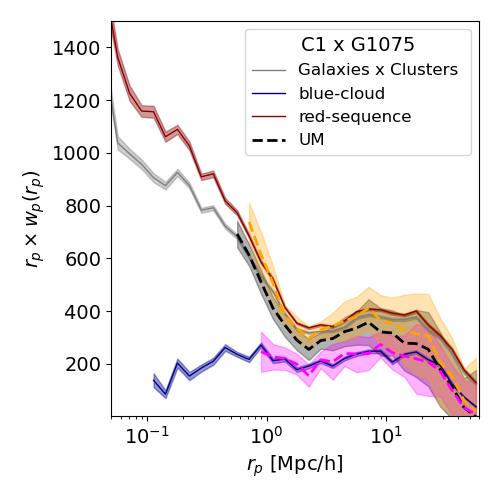
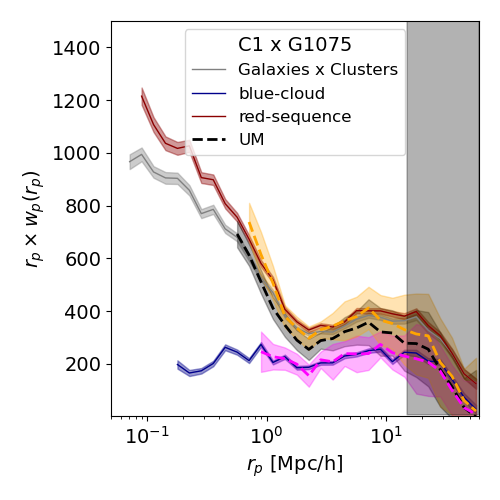
comparison to simulations

diff --git a/python/compare_wp_uchuu_1075.py b/python/compare_wp_uchuu_1075.py
@@ -86,7 +86,7 @@ t_wp = Table.read(el)
 f_err = all_wprp.std(axis=0)/all_wprp.mean(axis=0)
 f_err_tot = (f_err**2 + syst_err**2)**0.5
 # f_err = t_wp['wprp_JK_std']/t_wp['wprp_JK_mean']
-plt.plot(t_wp['rp_mid'], all_wprp.mean(axis=0)*t_wp['rp_mid'], lw=1,  ls='solid', color='darkblue')
+plt.plot(t_wp['rp_mid'], all_wprp.mean(axis=0)*t_wp['rp_mid'], lw=1,  ls='solid', color='darkblue', label='blue-cloud')
 plt.fill_between(t_wp['rp_mid'], all_wprp.mean(axis=0)*t_wp['rp_mid']*(1-f_err_tot), all_wprp.mean(axis=0)*t_wp['rp_mid']*(1+f_err_tot), color='darkblue', alpha=0.4)#, label='blue-cloud')
 
 pcf_list_1075 = np.array( glob.glob( os.path.join( dC1xG1075, '*_RS_*NSIDE_08*.fits' )))
@@ -98,7 +98,7 @@ t_wp = Table.read(el)
 f_err = all_wprp.std(axis=0)/all_wprp.mean(axis=0)
 f_err_tot = (f_err**2 + syst_err**2)**0.5
 # f_err = t_wp['wprp_JK_std']/t_wp['wprp_JK_mean']
-plt.plot(t_wp['rp_mid'], all_wprp.mean(axis=0)*t_wp['rp_mid'], lw=1,  ls='solid', color='darkred')
+plt.plot(t_wp['rp_mid'], all_wprp.mean(axis=0)*t_wp['rp_mid'], lw=1,  ls='solid', color='darkred', label='red-sequence')
 plt.fill_between(t_wp['rp_mid'], all_wprp.mean(axis=0)*t_wp['rp_mid']*(1-f_err_tot), all_wprp.mean(axis=0)*t_wp['rp_mid']*(1+f_err_tot), color='darkred', alpha=0.4)#, label='red-sequence')
 
 t_wp = U0p19["ANY_10.75_LX43.2"]
@@ -114,12 +114,8 @@ plt.plot(t_wp['rp_mid'], t_wp['rp_mid']*t_wp['wprp_JK_mean'], lw=2,  ls='dashed'
 f_err = t_wp['wprp_JK_std']/t_wp['wprp_JK_mean']
 plt.fill_between(t_wp['rp_mid'], t_wp['wprp_JK_mean']*t_wp['rp_mid']*(1-f_err), t_wp['wprp_JK_mean']*t_wp['rp_mid']*(1+f_err), color='orange', alpha=0.3)
 
-#t_wp = U0p19["ANY_10.75_LX42.9"]
-#plt.plot(t_wp['rp_mid'], t_wp['rp_mid']*t_wp['wprp'], lw=2,  ls='dashed', color='k', label='Uchuu+UM z=0.14')
-#t_wp = U0p19["BC_10.75_LX42.9"]
-#plt.plot(t_wp['rp_mid'], t_wp['rp_mid']*t_wp['wprp'], lw=2,  ls='dashed', color='cyan')
-#t_wp = U0p19["RS_10.75_LX42.9"]
-#plt.plot(t_wp['rp_mid'], t_wp['rp_mid']*t_wp['wprp'], lw=2,  ls='dashed', color='pink')
+y_val = np.arange(7, 3000, 1)
+plt.fill_betweenx(y=y_val, x1=60*np.ones_like(y_val), x2=15*np.ones_like(y_val), color='k' , alpha=0.3)
 
 plt.ylim((1, 1500))
 plt.xlim((0.05, 60))
